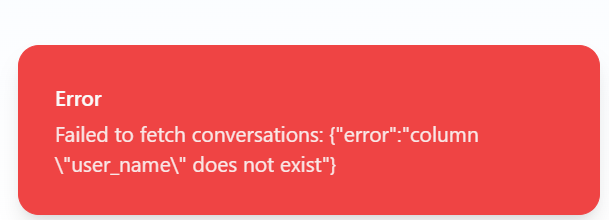
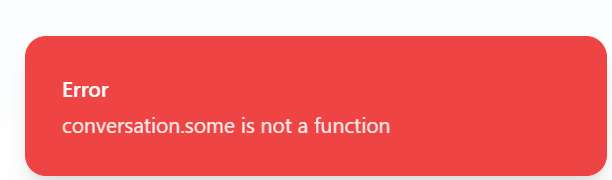
Agent query: Can you check if the conversation analysis page now shows the user names correctly (e.g. 'Fred's Conversation') and processes feedback properly?
Enhance ConversationAnalysis page to handle conversation data including user names.

Screenshot: https://storage.googleapis.com/screenshot-production-us-central1/354e5987-963e-41a0-9bf0-0575f8631bcb/5e6962e3-f55c-4103-9fb5-980047efd63b.jpg

Changed region(s): [[0.0936, 0.4167, 0.8112, 0.8056], [0.0312, 0.1944, 0.9984, 0.9722]]

diff --git a/client/src/pages/ConversationAnalysis.tsx b/client/src/pages/ConversationAnalysis.tsx
@@ -12,9 +12,14 @@ interface ConversationFeedback {
   summary: string | null;
 }
 
+interface ConversationData {
+  messages: Message[];
+  userName: string | null;
+}
+
 export default function ConversationAnalysis() {
   const [chatUrl, setChatUrl] = useState("");
-  const [conversations, setConversations] = useState<Message[][]>([]);
+  const [conversations, setConversations] = useState<ConversationData[]>([]);
   const [feedbacks, setFeedbacks] = useState<ConversationFeedback[]>([]);
   const [isLoading, setIsLoading] = useState(false);
   const { toast } = useToast();
@@ -57,10 +62,10 @@ export default function ConversationAnalysis() {
       console.log('Fetched conversations:', conversationsData);
 
       // Get feedback for each conversation
-      const feedbackPromises = conversationsData.map(async (conversation: Message[]) => {
+      const feedbackPromises = conversationsData.map(async (conversation: ConversationData) => {
         // Validate conversation has at least one complete exchange
-        const hasUserMessage = conversation.some(m => m.role === 'user');
-        const hasAssistantMessage = conversation.some(m => m.role === 'assistant');
+        const hasUserMessage = conversation.messages.some(m => m.role === 'user');
+        const hasAssistantMessage = conversation.messages.some(m => m.role === 'assistant');
         
         if (!hasUserMessage || !hasAssistantMessage) {
           console.warn('Skipping conversation without complete exchange');
@@ -74,7 +79,7 @@ export default function ConversationAnalysis() {
           headers: { "Content-Type": "application/json" },
           body: JSON.stringify({
             feedbackCriteria: config.feedbackCriteria,
-            messages: conversation
+            messages: conversation.messages
           }),
         });
 
